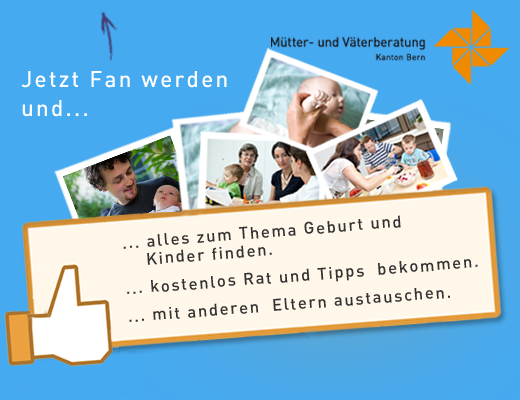
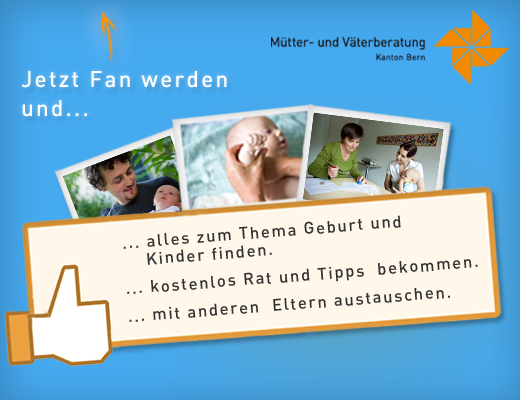
tabbed content

diff --git a/css/style.css b/css/style.css
@@ -17,35 +17,74 @@ div {
 }
 
 /*fb page*/
-#fb-page {
+#fan, .tab_content, #notfan {
   width: 520px;
   height: 648px;
   position: absolute;
-  background:#ffffff url('../images/bg.png') no-repeat left top;
+  background-color:#ffffff;
 }
 
-.button {
+.tab, .button{
   position: absolute;
-  height: 20px;
-  width: 100px;
   border: 0px solid black;
   cursor: pointer;
 }
 
-#fb-page #notfan {
-  width: inherit;
-  height: inherit; 
-  position: absolute;
-  top: 0px;
-  left: 0px;
+.tab {
+  top: 45px;
+  height: 23px;
+}
+
+.button {
+  width: 20px;
+  height: 10px;
+}
+
+#notfan {
   background:#ffffff url('../images/notfan.png') no-repeat left top;
 }
 
-#fb-page #fan {
-  width: inherit;
-  height: 157px;
-  position: absolute;
-  top: 163px;
-  left: 0px;
-  background:#ffffff url('../images/fan.png') no-repeat left top;
+#fan #button_tab_1 {
+  left:15px;
+  width: 121px;
 }
+
+#fan #button_tab_2 {
+  left: 137px;
+  width: 192px;
+}
+
+.tab_content#tab_1 {
+  background:#ffffff url('../images/tab_1.png') no-repeat left top;
+}
+
+#tab_1 #link_1 {
+  top: 183px;
+  right: 33px;
+  width: 65px
+}
+
+#tab_1 #link_2 {
+  top: 198px;
+  left: 27px;
+  width: 107px
+}
+
+.tab_content#tab_2 {
+  background:#ffffff url('../images/tab_2.png') no-repeat left top;
+  
+}
+
+#tab_2 #link_1 {
+  top: 305px;
+  left: 257px;
+  width: 80px
+}
+
+#tab_2 #link_2 {
+  top: 318px;
+  left: 27px;
+  width: 50px
+}
+
+

diff --git a/index.php b/index.php
@@ -8,8 +8,8 @@ require 'fb-php-sdk/src/facebook.php';
 //to this url
 $fb_page = "http://www.facebook.com/mvb";
 $fb = new Facebook(array(
-  'appId' => '133206583442452',
-  'secret' => '3517f87909aa2140a7aedde74fa39171' ,
+  'appId' => '267360273285518',
+  'secret' => 'afe67951dbc2e5f9860846f21abb2e69',
 ));
 $isfan = FALSE;
 $locale = 'de_DE';
@@ -35,6 +35,19 @@ $fbjssdk_url = "http://connect.facebook.net/".$locale."/all.js";
     <div id="fb-page">
       
       <div id="fan" >
+        <!---->
+        <div class="tab_content" id="tab_1">
+          <div class="button" id="link_1" onclick="open_link('http://www.mvb-be.ch/onlineberatung/')"></div>
+          <div class="button" id="link_2" onclick="open_link('http://www.mvb-be.ch/onlineberatung/')"></div>
+        </div>
+        <div class="tab_content" style="display: none" id="tab_2">
+          <div class="button" id="link_1" onclick="open_link('mailto:klemon@mvb-be.ch')"></div>
+          <div class="button" id="link_2" onclick="open_link('mailto:klemon@mvb-be.ch')"></div>
+        </div>
+        
+        
+        <div class="tab" id="button_tab_1" tabId="tab_1" onclick="showTab(this);"></div>
+        <div class="tab" id="button_tab_2" tabId="tab_2" onclick="showTab(this);"></div>
       </div>
       
       <div id="notfan"></div>
@@ -63,6 +76,12 @@ $fbjssdk_url = "http://connect.facebook.net/".$locale."/all.js";
     
     if (isFan){
       $('#notfan').fadeOut(500);
+    }
+    
+    function showTab(el) {
+      $('.tab_content').hide();
+      var tab = $(el);
+      $('#' + tab.attr('tabId')).show();
     }
     
     function open_link (url) {
